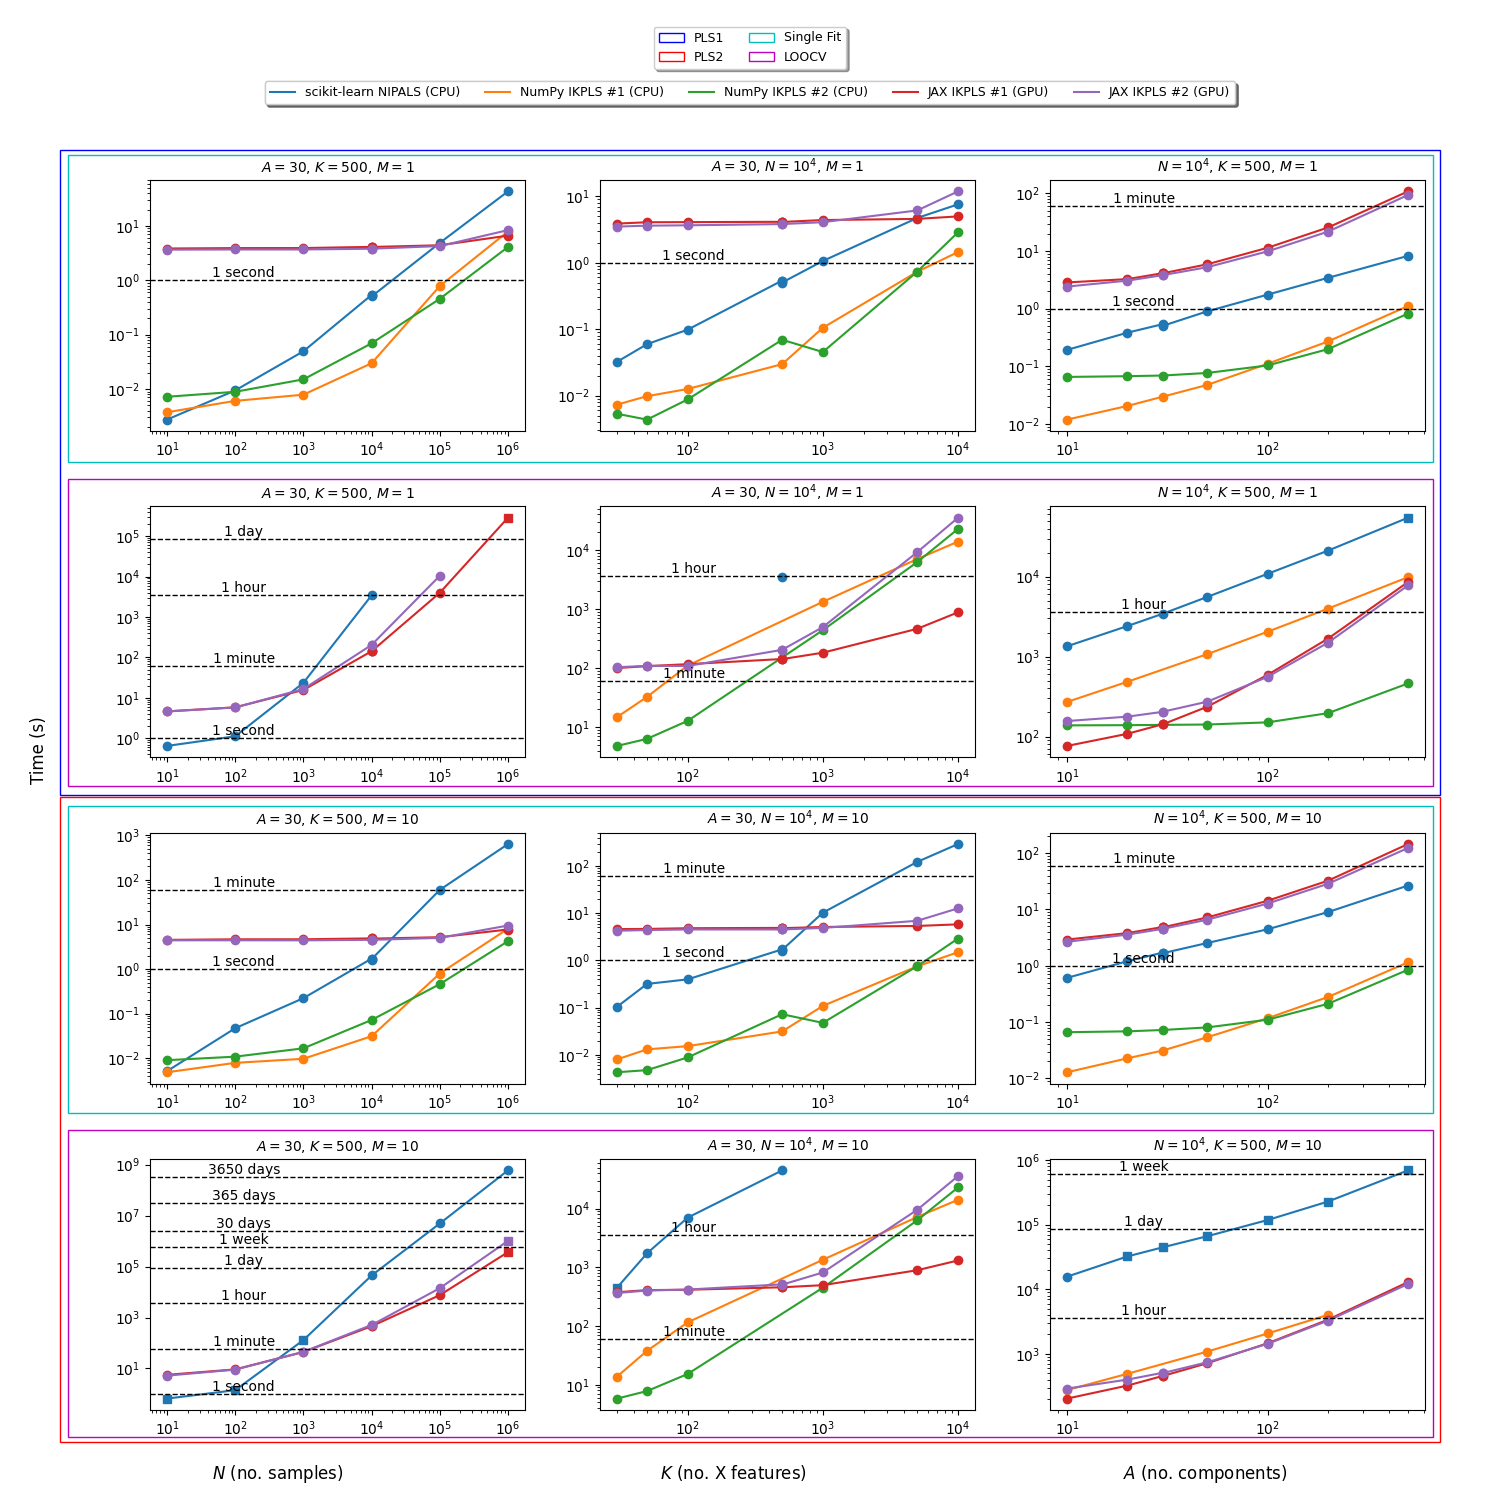
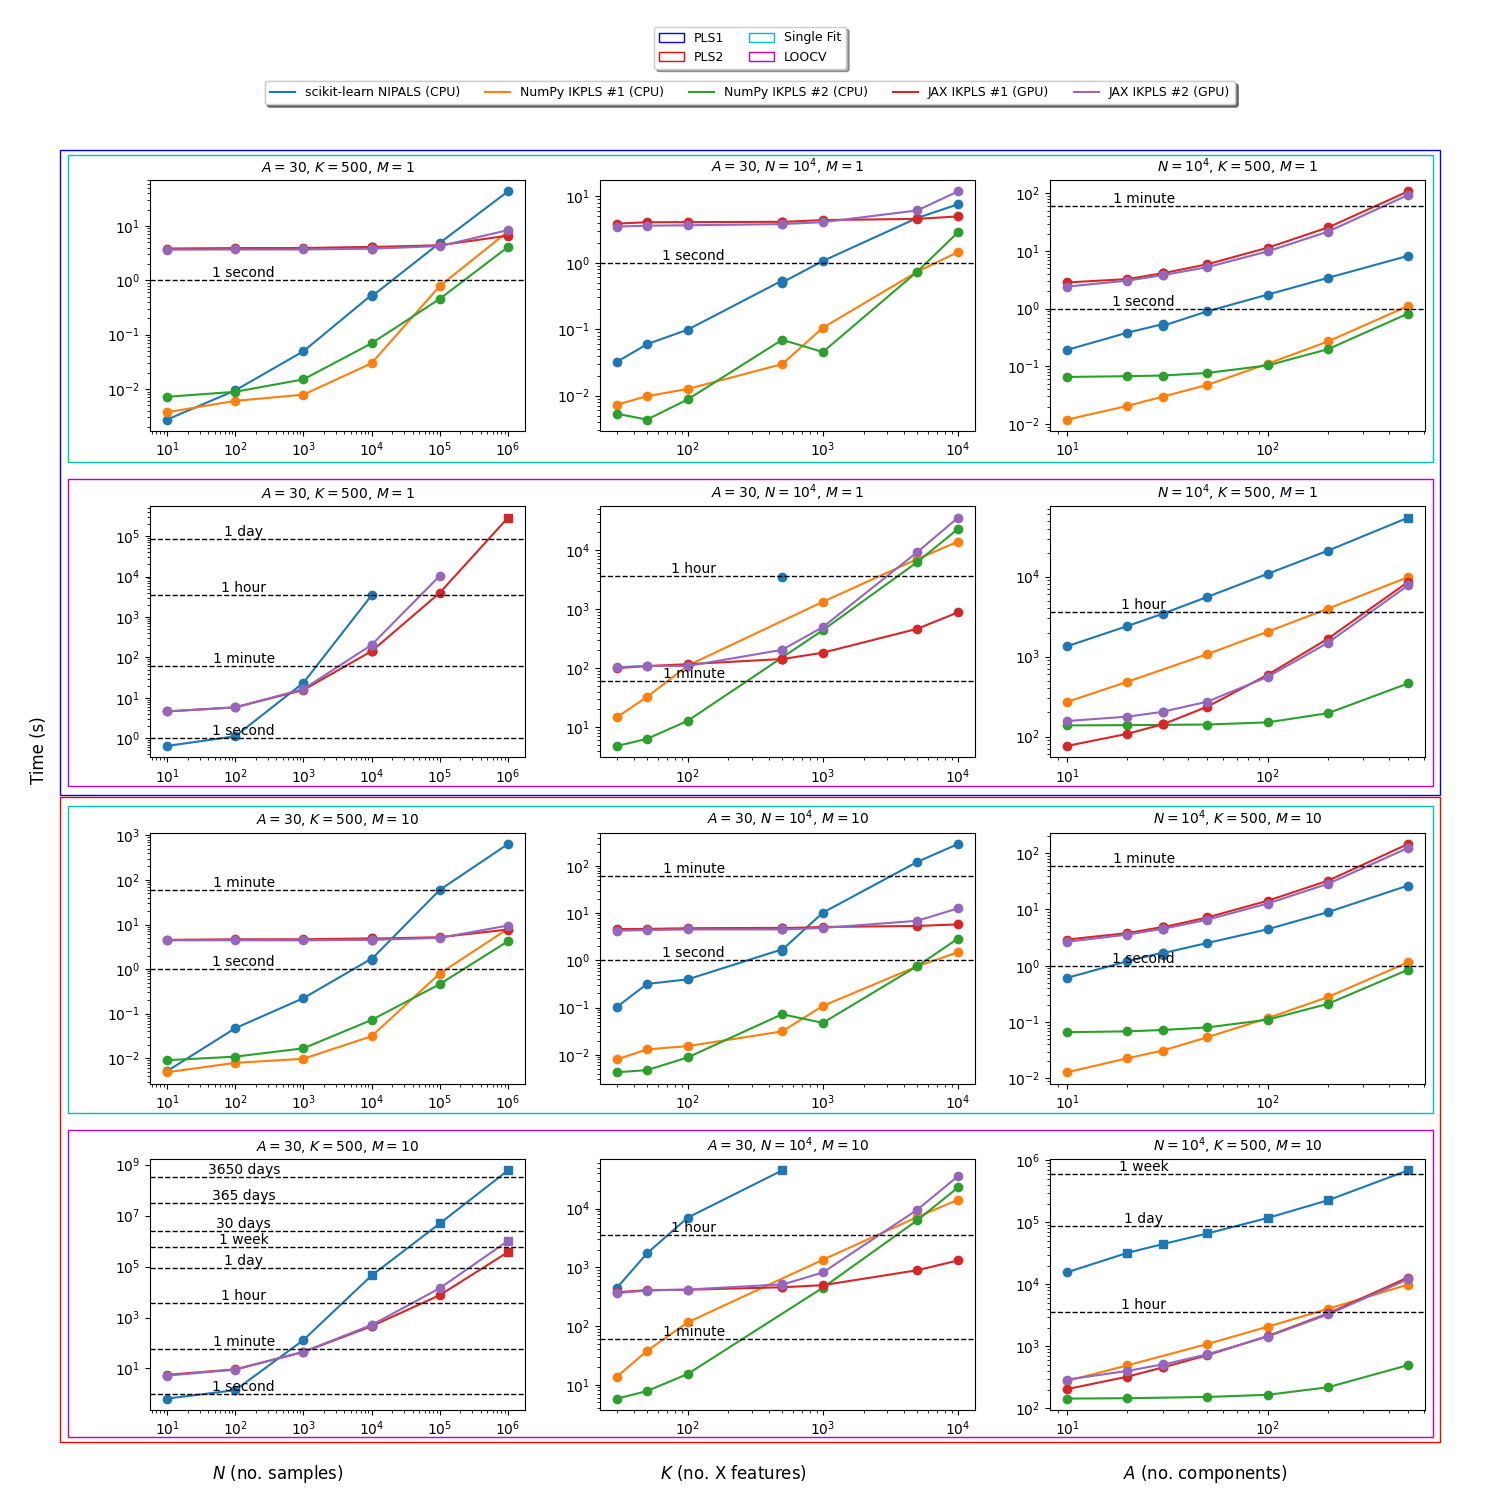
Dev (#6)

Changed region(s): [[0.7053, 0.7973, 0.9507, 0.9507], [0.6747, 0.8893, 0.7053, 0.92]]

diff --git a/plot_timings.py b/plot_timings.py
@@ -69,6 +69,7 @@ def plot_timings(
         sorted_indices = np.argsort(x)
         x = x[sorted_indices]
         t = t[sorted_indices]
+        inferred = inferred[sorted_indices]
         curve = ax.loglog(x, t, "-", label=name)
         color = curve[0].get_color()
         for point_x, point_t, point_inferred in zip(x, t, inferred):

diff --git a/README.rst b/README.rst
@@ -5,14 +5,14 @@ Improved Kernel Partial Least Squares (IKPLS)
    :target: https://pypi.python.org/pypi/ikpls/
    :alt: PyPI Version
 .. image:: https://img.shields.io/pypi/l/ikpls.svg
-    :target: https://pypi.python.org/pypi/ikpls/
-    :alt: License
+   :target: https://pypi.python.org/pypi/ikpls/
+   :alt: License
 .. image:: https://readthedocs.org/projects/ikpls/badge/?version=latest
-    :target: https://ikpls.readthedocs.io/en/latest/?badge=latest
-    :alt: Documentation Status
+   :target: https://ikpls.readthedocs.io/en/latest/?badge=latest
+   :alt: Documentation Status
 .. image:: https://github.com/Sm00thix/IKPLS/actions/workflows/workflow.yml/badge.svg
-    :target: https://github.com/Sm00thix/IKPLS/actions/workflows/workflow.yml
-    :alt: Build Status
+   :target: https://github.com/Sm00thix/IKPLS/actions/workflows/workflow.yml
+   :alt: Build Status
 
 Fast CPU, GPU, and TPU Python implementations of Improved Kernel PLS Algorithm #1 and Algorithm #2 by Dayal and MacGregor [1]_. Improved Kernel PLS has been shown to be both fast [2]_ and numerically stable [3]_.
 The CPU implementations are made using NumPy [4]_ and subclass BaseEstimator from scikit-learn [5]_, allowing integration into scikit-learn's ecosystem of machine learning algorithms and pipelines. For example, the CPU implementations can be used with scikit-learn's `cross_validate` .
@@ -95,12 +95,12 @@ Examples
 
 In `examples <https://github.com/Sm00thix/IKPLS/tree/main/examples>`_ you will find:
 
-- `Example <https://github.com/Sm00thix/IKPLS/tree/main/examples/fit_predict_numpy.py>`_ of fitting and predicting with the NumPy implementations.
+- `Fit and Predict with NumPy. <https://github.com/Sm00thix/IKPLS/tree/main/examples/fit_predict_numpy.py>`_
 
-- `Example <https://github.com/Sm00thix/IKPLS/tree/main/examples/fit_predict_jax.py>`_ of fitting and predicting with the JAX implementations.
+- `Fit and Predict with JAX. <https://github.com/Sm00thix/IKPLS/tree/main/examples/fit_predict_jax.py>`_
 
-- `Example <https://github.com/Sm00thix/IKPLS/tree/main/examples/cross_val_numpy.py>`_ of cross-validating with the NumPy implementations.
+- `Cross-validate with NumPy. <https://github.com/Sm00thix/IKPLS/tree/main/examples/cross_val_numpy.py>`_
 
-- `Example <https://github.com/Sm00thix/IKPLS/tree/main/examples/cross_val_jax.py>`_ of cross-validating with the JAX implementations.
+- `Cross-validate with JAX. <https://github.com/Sm00thix/IKPLS/tree/main/examples/cross_val_jax.py>`_
 
-- `Example <https://github.com/Sm00thix/IKPLS/tree/main/examples/gradient_jax.py>`_ of computing the gradient of a preprocessing convolution filter with respect to the RMSE between the target value and the value predicted by PLS after fitting.
+- `Compute the gradient of a preprocessing convolution filter with respect to the RMSE between the target value and the value predicted by PLS after fitting with JAX. <https://github.com/Sm00thix/IKPLS/tree/main/examples/gradient_jax.py>`_
